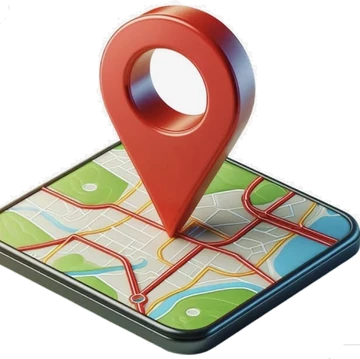
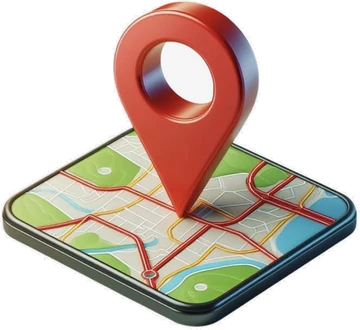
Подвал: геометка целиком и в середине у контактов; 3D-сумка на колёсах в блоке доставки

Changed region(s): [[0.0, 0.0, 1.0, 1.0]]

diff --git a/src/App.tsx b/src/App.tsx
@@ -12,6 +12,7 @@ const WA_3D = `${BASE}img/wa-3d.webp`;
 const KASPI = `${BASE}img/kaspi.webp`;
 const PIN_MAP = `${BASE}img/pin-map.webp`;
 const PHONE_3D = `${BASE}img/phone-3d.webp`;
+const BAG_WHEELS = `${BASE}img/bag-wheels.webp`;
 // Первый экран: картинку увеличиваем, чтобы лицо продавца оказалось в большой карточке, а не под барами
 const HERO_ZOOM = 1.4;
 
@@ -592,13 +593,15 @@ function DeliverySection({ c }: { c: Content }) {
     >
       <div className="grid grid-cols-1 md:grid-cols-2 gap-1.5 md:gap-2 md:h-[calc(100vh-7rem)]">
         <div className="flex flex-col gap-1.5 md:gap-2">
-          <div style={reveal.getAnimStyle(0)} className="rounded-xl md:rounded-2xl bg-stone-50 p-5 md:p-7 flex flex-col justify-between flex-[1.2] min-h-[180px] md:min-h-0">
-            <h2 className="text-[clamp(2.6rem,6vw,6rem)] font-bold leading-[0.95] text-black">
+          <div style={reveal.getAnimStyle(0)} className="relative rounded-xl md:rounded-2xl bg-stone-50 p-5 md:p-7 flex flex-col justify-between flex-[1.2] min-h-[180px] md:min-h-0 overflow-hidden">
+            <h2 className="text-[clamp(2.6rem,6vw,6rem)] font-bold leading-[0.95] text-black relative z-10">
               {c.delivery.h2[0]}
               <br />
               {c.delivery.h2[1]}
             </h2>
-            <p className="text-xs md:text-sm font-semibold text-black mt-4">{c.delivery.sub}</p>
+            <p className="text-xs md:text-sm font-semibold text-black mt-4 relative z-10 max-w-[60%]">{c.delivery.sub}</p>
+            {/* 3D-сумка на колёсах: иллюстрация доставки */}
+            <img src={BAG_WHEELS} alt="" className="absolute right-3 bottom-2 md:right-6 md:bottom-4 w-28 md:w-44 object-contain drop-shadow-[0_14px_22px_rgba(0,0,0,0.2)] pointer-events-none" />
           </div>
           <div style={reveal.getAnimStyle(1)} className="flex gap-1.5 md:gap-2 flex-1 min-h-[140px] md:min-h-0">
             <div className="flex-1 rounded-xl md:rounded-2xl overflow-hidden">
@@ -743,7 +746,7 @@ function Footer({ c }: { c: Content }) {
   return (
     <footer id="contacts" className="w-full px-3 md:px-5 pt-6 md:pt-8 pb-24 md:pb-28 scroll-mt-20 md:scroll-mt-24">
       <div className="rounded-xl md:rounded-2xl bg-stone-50 p-5 md:p-10 md:pr-28 grid grid-cols-1 md:grid-cols-3 gap-8">
-        <div className="flex items-center justify-between gap-4">
+        <div>
           <div>
             <div className="text-3xl md:text-4xl font-extrabold uppercase tracking-tight leading-none">
               {c.shop.logoTop}
@@ -752,18 +755,20 @@ function Footer({ c }: { c: Content }) {
             </div>
             <p className="text-sm font-medium mt-3">{c.shop.tagline}</p>
           </div>
+        </div>
+        <div className="flex items-center justify-between gap-4">
+          <div>
+            <p className="text-xs font-bold uppercase tracking-wider text-neutral-500 mb-3">{c.footer.contacts}</p>
+            <a href={c.shop.phoneHref} className="block text-xl md:text-2xl font-bold">
+              {c.shop.phone}
+            </a>
+            <p className="text-sm md:text-base mt-2">{c.shop.address}</p>
+            <p className="text-sm md:text-base mt-1">{c.shop.hours}</p>
+          </div>
           {/* 3D-геометка на карте: ведёт на карту с адресом */}
           <a href={mapHref} target="_blank" rel="noreferrer" aria-label={c.footer.find} className="group shrink-0">
-            <img src={PIN_MAP} alt="" className="w-24 h-24 md:w-28 md:h-28 object-contain drop-shadow-[0_12px_18px_rgba(0,0,0,0.18)] transition-transform duration-300 group-hover:scale-110 group-hover:-translate-y-0.5" />
+            <img src={PIN_MAP} alt="" className="w-24 md:w-28 object-contain drop-shadow-[0_12px_18px_rgba(0,0,0,0.18)] transition-transform duration-300 group-hover:scale-110 group-hover:-translate-y-0.5" />
           </a>
-        </div>
-        <div>
-          <p className="text-xs font-bold uppercase tracking-wider text-neutral-500 mb-3">{c.footer.contacts}</p>
-          <a href={c.shop.phoneHref} className="block text-xl md:text-2xl font-bold">
-            {c.shop.phone}
-          </a>
-          <p className="text-sm md:text-base mt-2">{c.shop.address}</p>
-          <p className="text-sm md:text-base mt-1">{c.shop.hours}</p>
         </div>
         <div className="flex items-center justify-between gap-4">
           <div>
